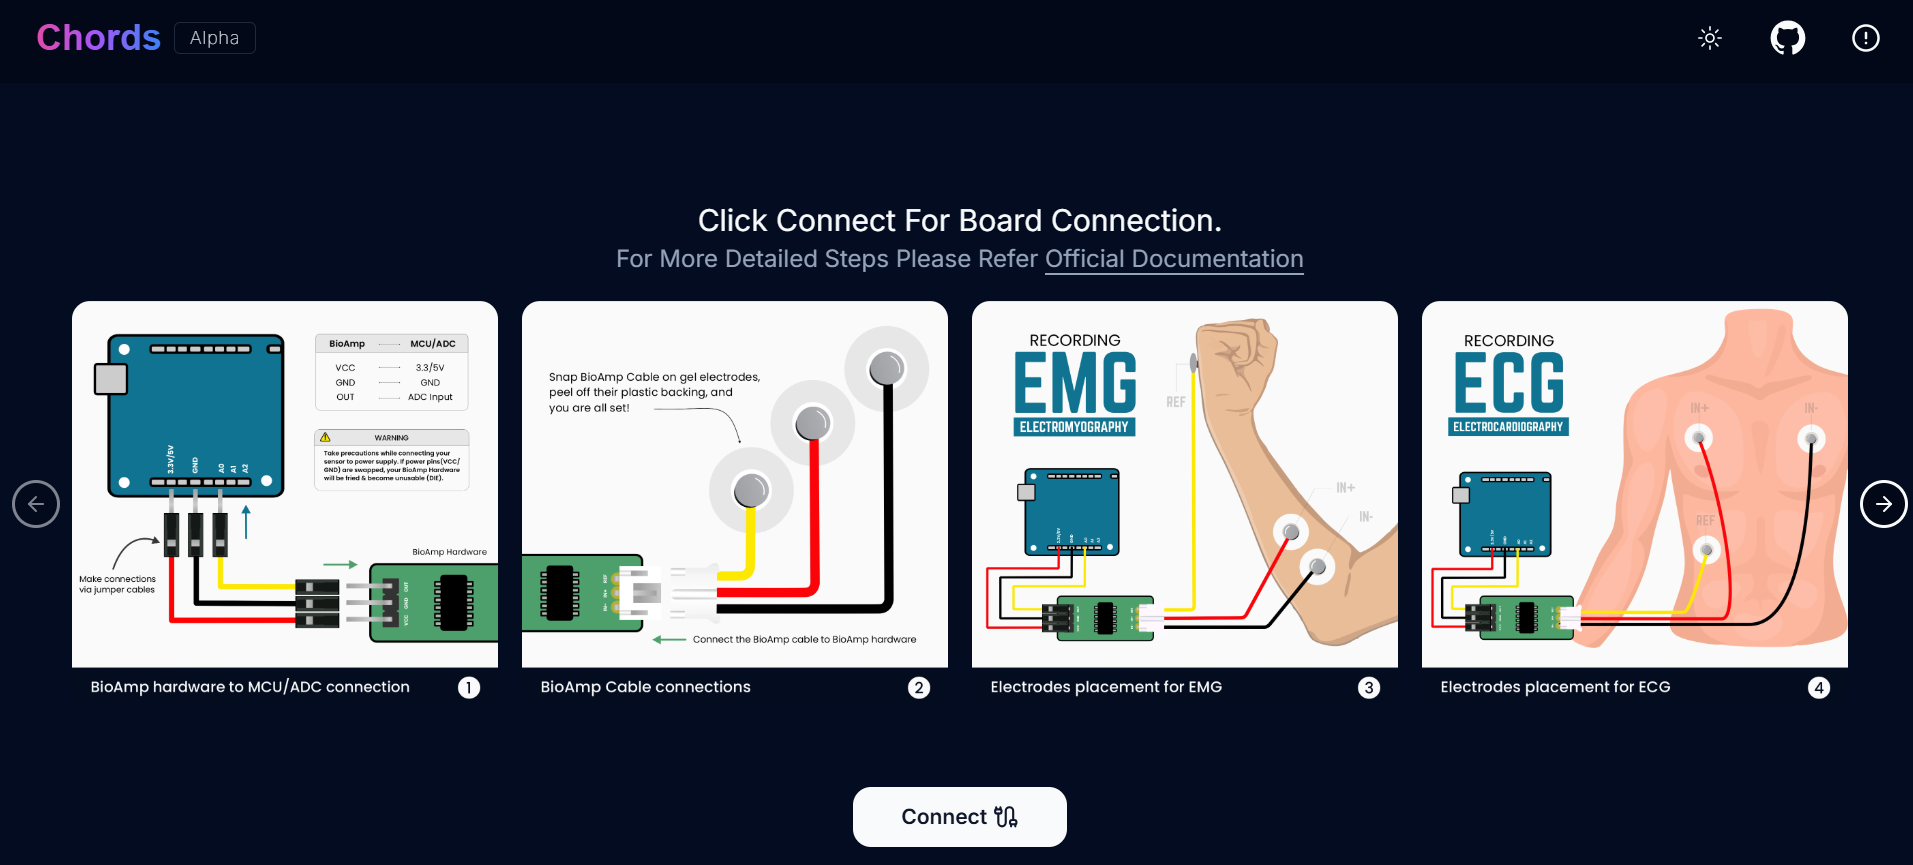
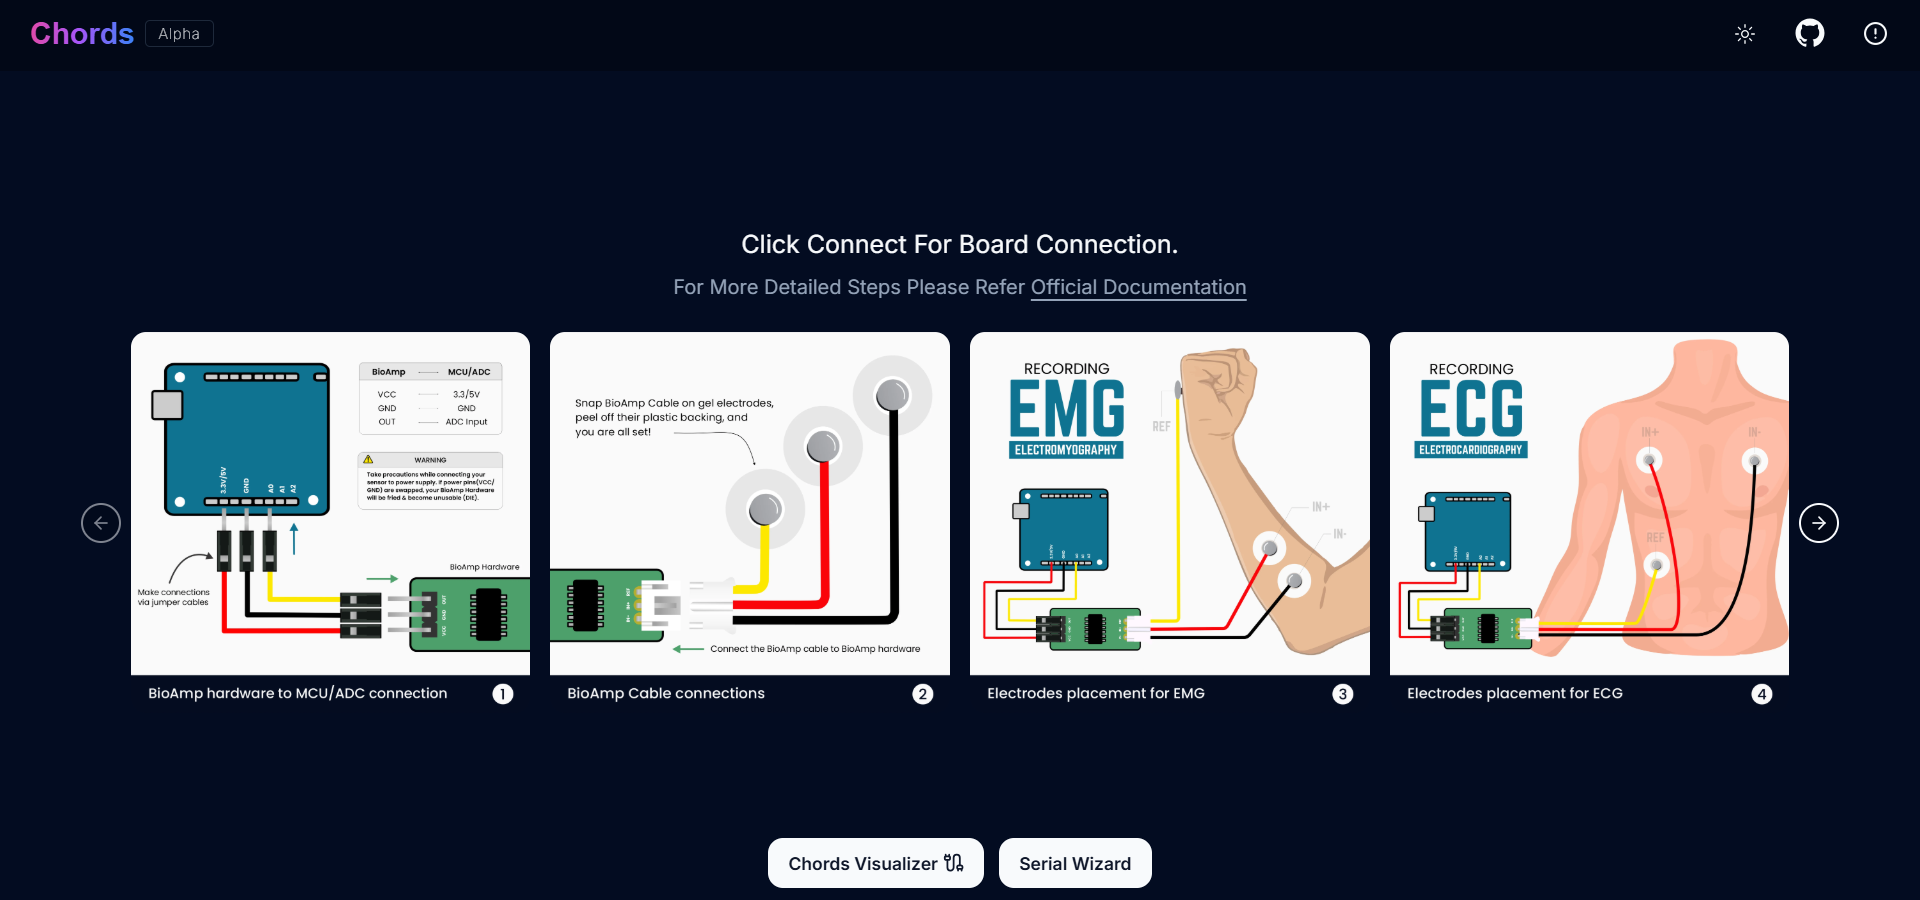
updated chords web documentation according to new updates

diff --git a/software/chords/chords-web/index.rst b/software/chords/chords-web/index.rst
@@ -12,28 +12,114 @@ Chords-Web is an open-source web application designed for real-time signal visua
     :align: center
     :alt: Chords-Web Landing Page
 
-Features
-********
-- **Connection**: Effortlessly compatible with BioAmp Hardware and automatically detects the development board running the Chords-Web Arduino Firmware, simplifying the setup process and ensuring a smooth and efficient workflow from data acquisition to visualization.
+Applications
+************
+Below are some key applications of Chords-Web:
 
-.. figure:: ./media/chords_connection.*
-    :align: center
-    :alt: Chords-Web Connection
+Chords Visualizer
+=================
 
-- **Board Support** : You can check out `Compatible Development Board <https://github.com/upsidedownlabs/Chords-Arduino-Firmware>`_.
-- **Real-time Visualization**: Experience smooth real-time visualization of incoming data rendered with `WebGL-Plot <https://github.com/danchitnis/webgl-plot>`_. The system ensures smooth signal display, helping you monitor the signal flow without interruptions or lag.
-- **Frame Buffer Feature**: View and save up to the last five snapshots of your data. Snapshots are automatically captured per frame and can be navigated using left/right buttons. Adjusting the channel count resets snapshots for the new configuration. Plus, zoom in or out for a closer look!
-- **Recording**: You can record data in CSV format indefinitely or set a timer to stop recording automatically when it expires.
-- **Download/Delete**: You can manage recorded files more efficiently with a popover menu to download or delete individual files stored in IndexedDB. Additionally, buttons to download all files as a ZIP or delete them in one click.
-- **Zoom**: Zoom-in and zoom-out feature, gives you more control as now you can either zoom in to look at signal or zoom out for an overall view.
-- **Filter**: You can easily enhance biopotential signal quality with intuitive filter controls. select the muscle icon to apply a 70 Hz high-pass filter for EMG signals, improving their clarity. For ECG signals, click the heart icon to activate a 30 Hz low-pass filter for accurate heart rhythm visualization. The eye icon applies a 10 Hz low-pass filter to EOG signals, reducing high-frequency noise, while the brain icon enables a 45 Hz low-pass filter to enhance EEG signal analysis. Use the master button to apply these filters across all channels.
+On the visualization page, you'll find the "Chords Visualizer" button, which allows you to connect your device for serial communication. Clicking this button navigates you to the Chords Web Application, where you can visualize real-time data, apply filters to refine signal quality, record data for further analysis, and access multiple additional features designed to enhance your data acquisition and monitoring experience. Features offered by chords:
 
-.. figure:: ./media/chords_filter.*
-    :align: center
-    :alt: Chords-Web Filter
+- **Connection**  
+  Effortlessly compatible with **BioAmp Hardware**, Chords-Web automatically detects the development board running the **Chords-Web Arduino Firmware**. This simplifies the setup process, ensuring a smooth and efficient workflow from data acquisition to visualization.  
 
-- **Channel**: Supports plotting of multiple channels of data simultaneously in real time where each stream is color coded differently for easy identification.
-- **Disconnect**: Terminate the connection to the development board with a simple click. This functionality ensures a hassle-free disconnection process when you’re done with data collection or visualization.
+  .. figure:: ./media/chords_connection.*  
+     :align: center  
+     :alt: Chords-Web Connection  
+
+- **Board Support**  
+  Check out the `Compatible Development Board <https://github.com/upsidedownlabs/Chords-Arduino-Firmware>`_.  
+
+- **Real-time Visualization**  
+  Experience smooth, real-time data rendering powered by `WebGL-Plot <https://github.com/danchitnis/webgl-plot>`_. The system ensures uninterrupted signal display, allowing seamless monitoring of data flow.  
+
+- **Frame Buffer Feature**  
+
+  - View and save up to the **last five snapshots** of your data.  
+  - Snapshots are automatically captured per frame and can be navigated using left/right buttons.  
+  - Adjusting the **channel count resets snapshots** for the new configuration.  
+  - Zoom in or out for a detailed or broader view.  
+
+- **Recording & Data Management**  
+
+  - **Record** data in **CSV format**, either indefinitely or with a set timer.  
+  - **Download/Delete** recorded files efficiently:  
+
+    - Use the popover menu to download or delete individual files stored in IndexedDB.  
+    - Download all files as a ZIP or delete all files with one click.  
+
+- **Zoom & Time Base**  
+
+  - **Zoom Control:** Use Zoom-In & Zoom-Out buttons for a detailed view or an overview.  
+  - **Time Base:** Adjust the time base from **1 to 10 seconds per frame** using a slider, accessible via the settings icon.  
+
+- **Filter Options**  
+  Easily enhance biopotential signals with intuitive filter controls:  
+
+  - **EMG (Muscle) Filter**: 70 Hz high-pass filter for improved clarity.  
+  - **ECG (Heart) Filter**: 30 Hz low-pass filter for accurate heart rhythm visualization.  
+  - **EOG (Eye) Filter**: 10 Hz low-pass filter to reduce high-frequency noise.  
+  - **EEG (Brain) Filter**: 45 Hz low-pass filter for better EEG signal analysis.  
+  - **Master Filter**: Apply filters across all channels with one button.  
+
+  .. figure:: ./media/chords_filter.*  
+     :align: center  
+     :alt: Chords-Web Filter  
+
+- **Channel Support**  
+
+  - Supports **real-time multi-channel plotting**, with each stream color-coded for easy identification.  
+  - Currently supports **up to 16 channels**, depending on the connected device.  
+
+  .. figure:: ./media/chords_channelsupport.*  
+     :align: center  
+     :alt: Chords_Channelsupport
+
+- **Disconnect**  
+
+  - One-click disconnect from the development board, ensuring a hassle-free disconnection process after data collection or visualization.  
+
+Serial Plotter & Monitor  
+========================
+
+The **Serial Plotter & Monitor** is designed as a standalone feature within Chords-Web, replacing the **Arduino IDE's serial plotter and monitor**, which had limitations in real-time data visualization.  
+
+.. figure:: ./media/chords_serialwizard.*  
+     :align: center  
+     :alt: Chords-Web Filter  
+
+- **User-Friendly Interface**  
+
+  - Provides seamless navigation and mode switching for efficient monitoring.  
+  - Allows toggling between **Plotter**, **Monitor**, or both combined using the footer button bar.  
+  - Selectable **baud rate** for optimized serial communication.  
+
+- **Navigation Bar Options**  
+
+  - Switch between **light and dark themes**.  
+  - Visit the `GitHub Repository <https://github.com/upsidedownlabs/Chords-Web>`_.  
+  - View contributors.  
+  - Return to the previous page.  
+
+FFT Analysis and EEG Band Spectrum Plotting
+============================================
+
+We have introduced **FFT (Fast Fourier Transform) analysis** and **EEG band spectrum plotting** to enhance real-time signal processing. These features allow you to visualize and analyze EEG frequency bands, providing deeper insights into brain activity.
+
+- **Supported EEG Bands**
+
+- **Delta (0.5 - 4 Hz)** – Associated with deep sleep and unconscious states.  
+- **Theta (4 - 8 Hz)** – Linked to relaxation, meditation, and light sleep.  
+- **Alpha (8 - 13 Hz)** – Reflects calm, wakeful relaxation, often seen during closed-eye rest.  
+- **Beta (13 - 30 Hz)** – Related to active thinking, problem-solving, and focused mental activity.  
+- **Gamma (30 - 100 Hz)** – Involved in high-level cognitive functioning, attention, and perception.  
+
+
+- **Features**
+
+- Download recorded channel data as a **CSV file** for further analysis, storage, or visualization using external tools.
+- View **live plots of EEG band values**, allowing better monitoring of brainwave activity.
 
 
 Software Requirements
@@ -65,14 +151,38 @@ Uploading the Code
 Using the Software
 ==================
 
-1. Click the ``Connect`` button to establish a connection with the Arduino and start streaming.
-2. Use the ``ZoomIn/ZoomOut`` button to adjust the data visualization.
-3. Use the ``Play/Pause`` button to control the data stream. Navigate the last five snapshots with the ``Left/Right`` buttons in the Frame Buffer feature.
-4. Click the ``Record`` button to start recording data into a CSV file.
-5. To save the recorded data, click the ``Download`` button.
-6. Click the ``Delete`` button to remove recorded data.
-7. Click ``Filter`` button for EMG, ECG, EOG and EEG filters with ``muscle``, ``heart``, ``eye`` and ``brain`` icons or master buttons for all channels. You can apply 50Hz or 60Hz filter to individual or all channel.
-8. Adjust the number of channels by using the ``Plus/Minus`` buttons.
+1. Click the ``Visualize Now`` button to navigate to the applications page. Here, you will find two options:  
+   - ``Chords Visualizer``  
+   - ``Serial Wizard``  
+
+**Chords Visualizer**  
+===================
+2. Click the ``Chords Visualizer`` button to establish a connection with the Arduino and start streaming data.  
+3. Use the ``ZoomIn/ZoomOut`` buttons to adjust data visualization.  
+4. Use the ``Play/Pause`` button to control the data stream. Navigate the last five snapshots with the ``Left/Right`` buttons in the **Frame Buffer** feature.  
+5. Click the ``Record`` button to start recording data into a CSV file.  
+6. Click the ``Download`` button to save the recorded data.  
+7. Click the ``Delete`` button to remove recorded data.  
+8. Click the ``Filter`` button to apply filters for EMG, ECG, EOG, and EEG signals:  
+   - ``Muscle`` (70Hz high-pass for EMG)  
+   - ``Heart`` (30Hz low-pass for ECG)  
+   - ``Eye`` (10Hz low-pass for EOG)  
+   - ``Brain`` (45Hz low-pass for EEG)  
+   - Use the **Master button** to apply filters across all channels.  
+   - Apply **50Hz or 60Hz** filters to individual or all channels.  
+9.  Select channels via the ``Channels`` button in the settings popover.  
+10. Adjust the number of channels using the ``Plus/Minus`` buttons.  
+11. Adjust zoom using the ``Zoom`` slider for a detailed or overall view.  
+
+
+ 
+**Serial Wizard**  
+================
+10. Click the ``Serial Wizard`` button to open the **Serial Plotter & Monitor**.  
+    - A button bar in the footer lets you toggle between the **Plotter**, **Monitor**, or both together.  
+    - Select the **baud rate** from the available options.  
+    - Use the **navigation bar** to switch themes, visit the GitHub repository, check contributors, or return to the previous page.  
+
 
 Chords-Web Icons
 ************
